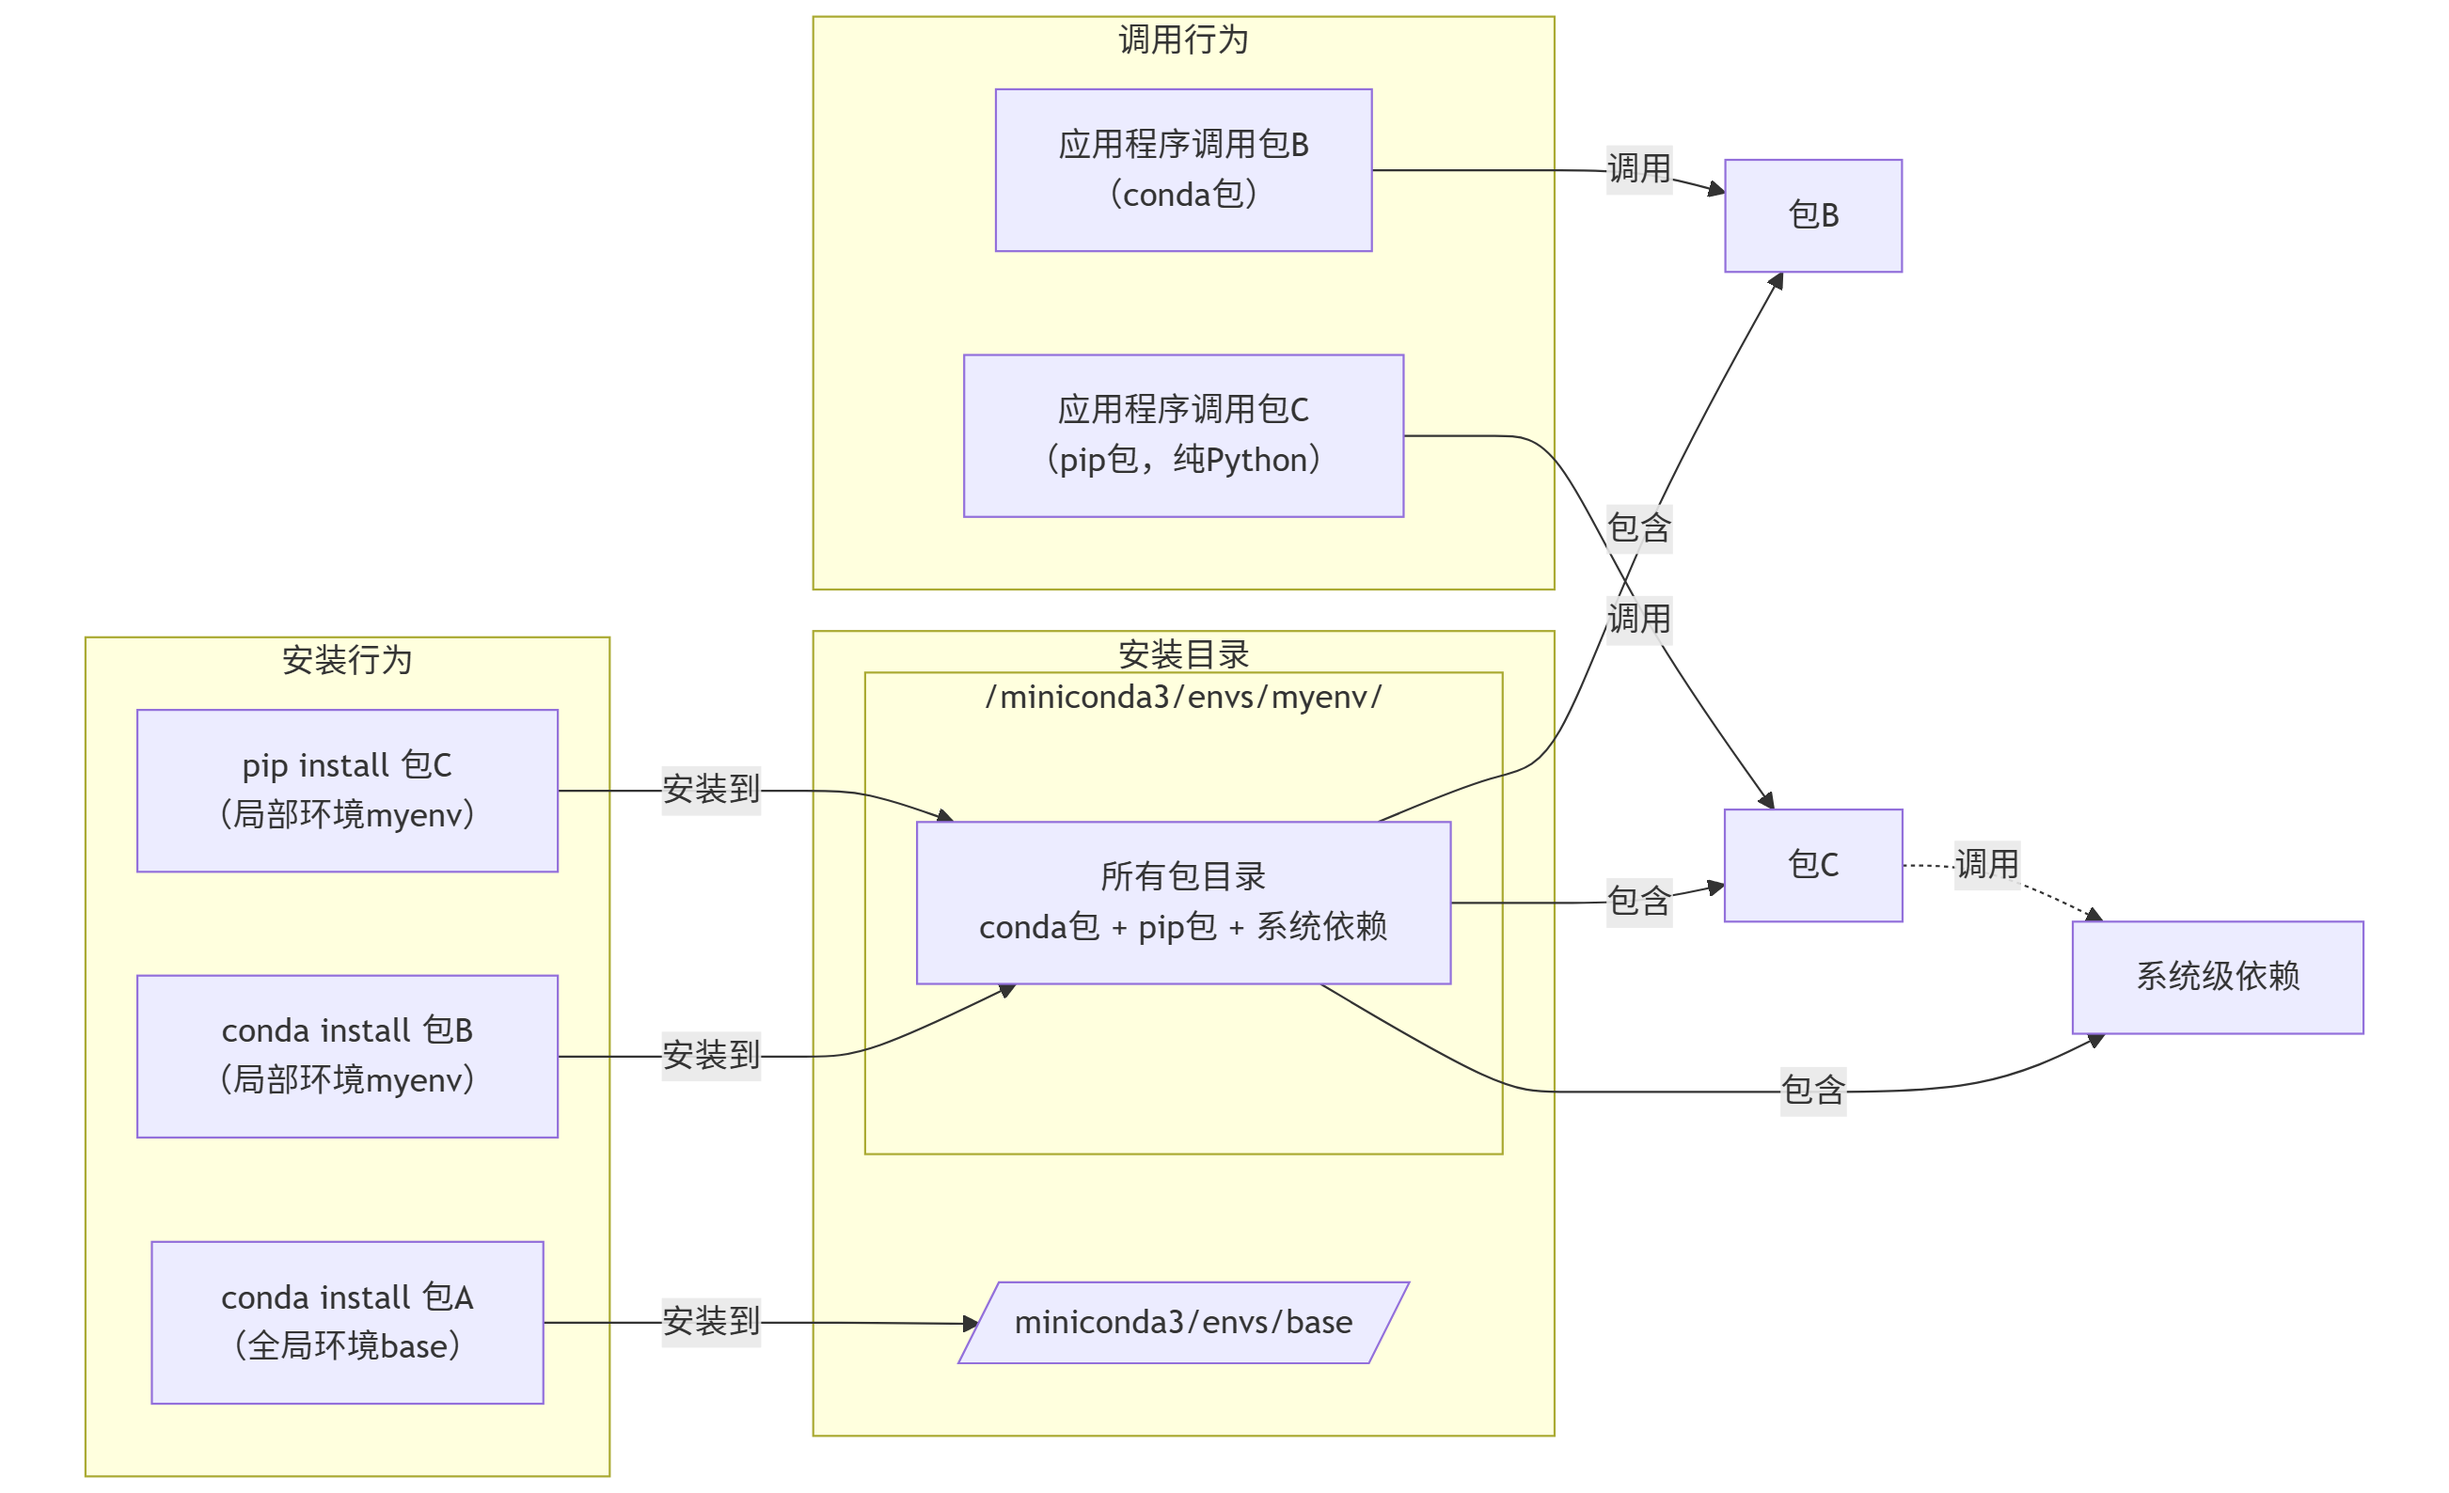
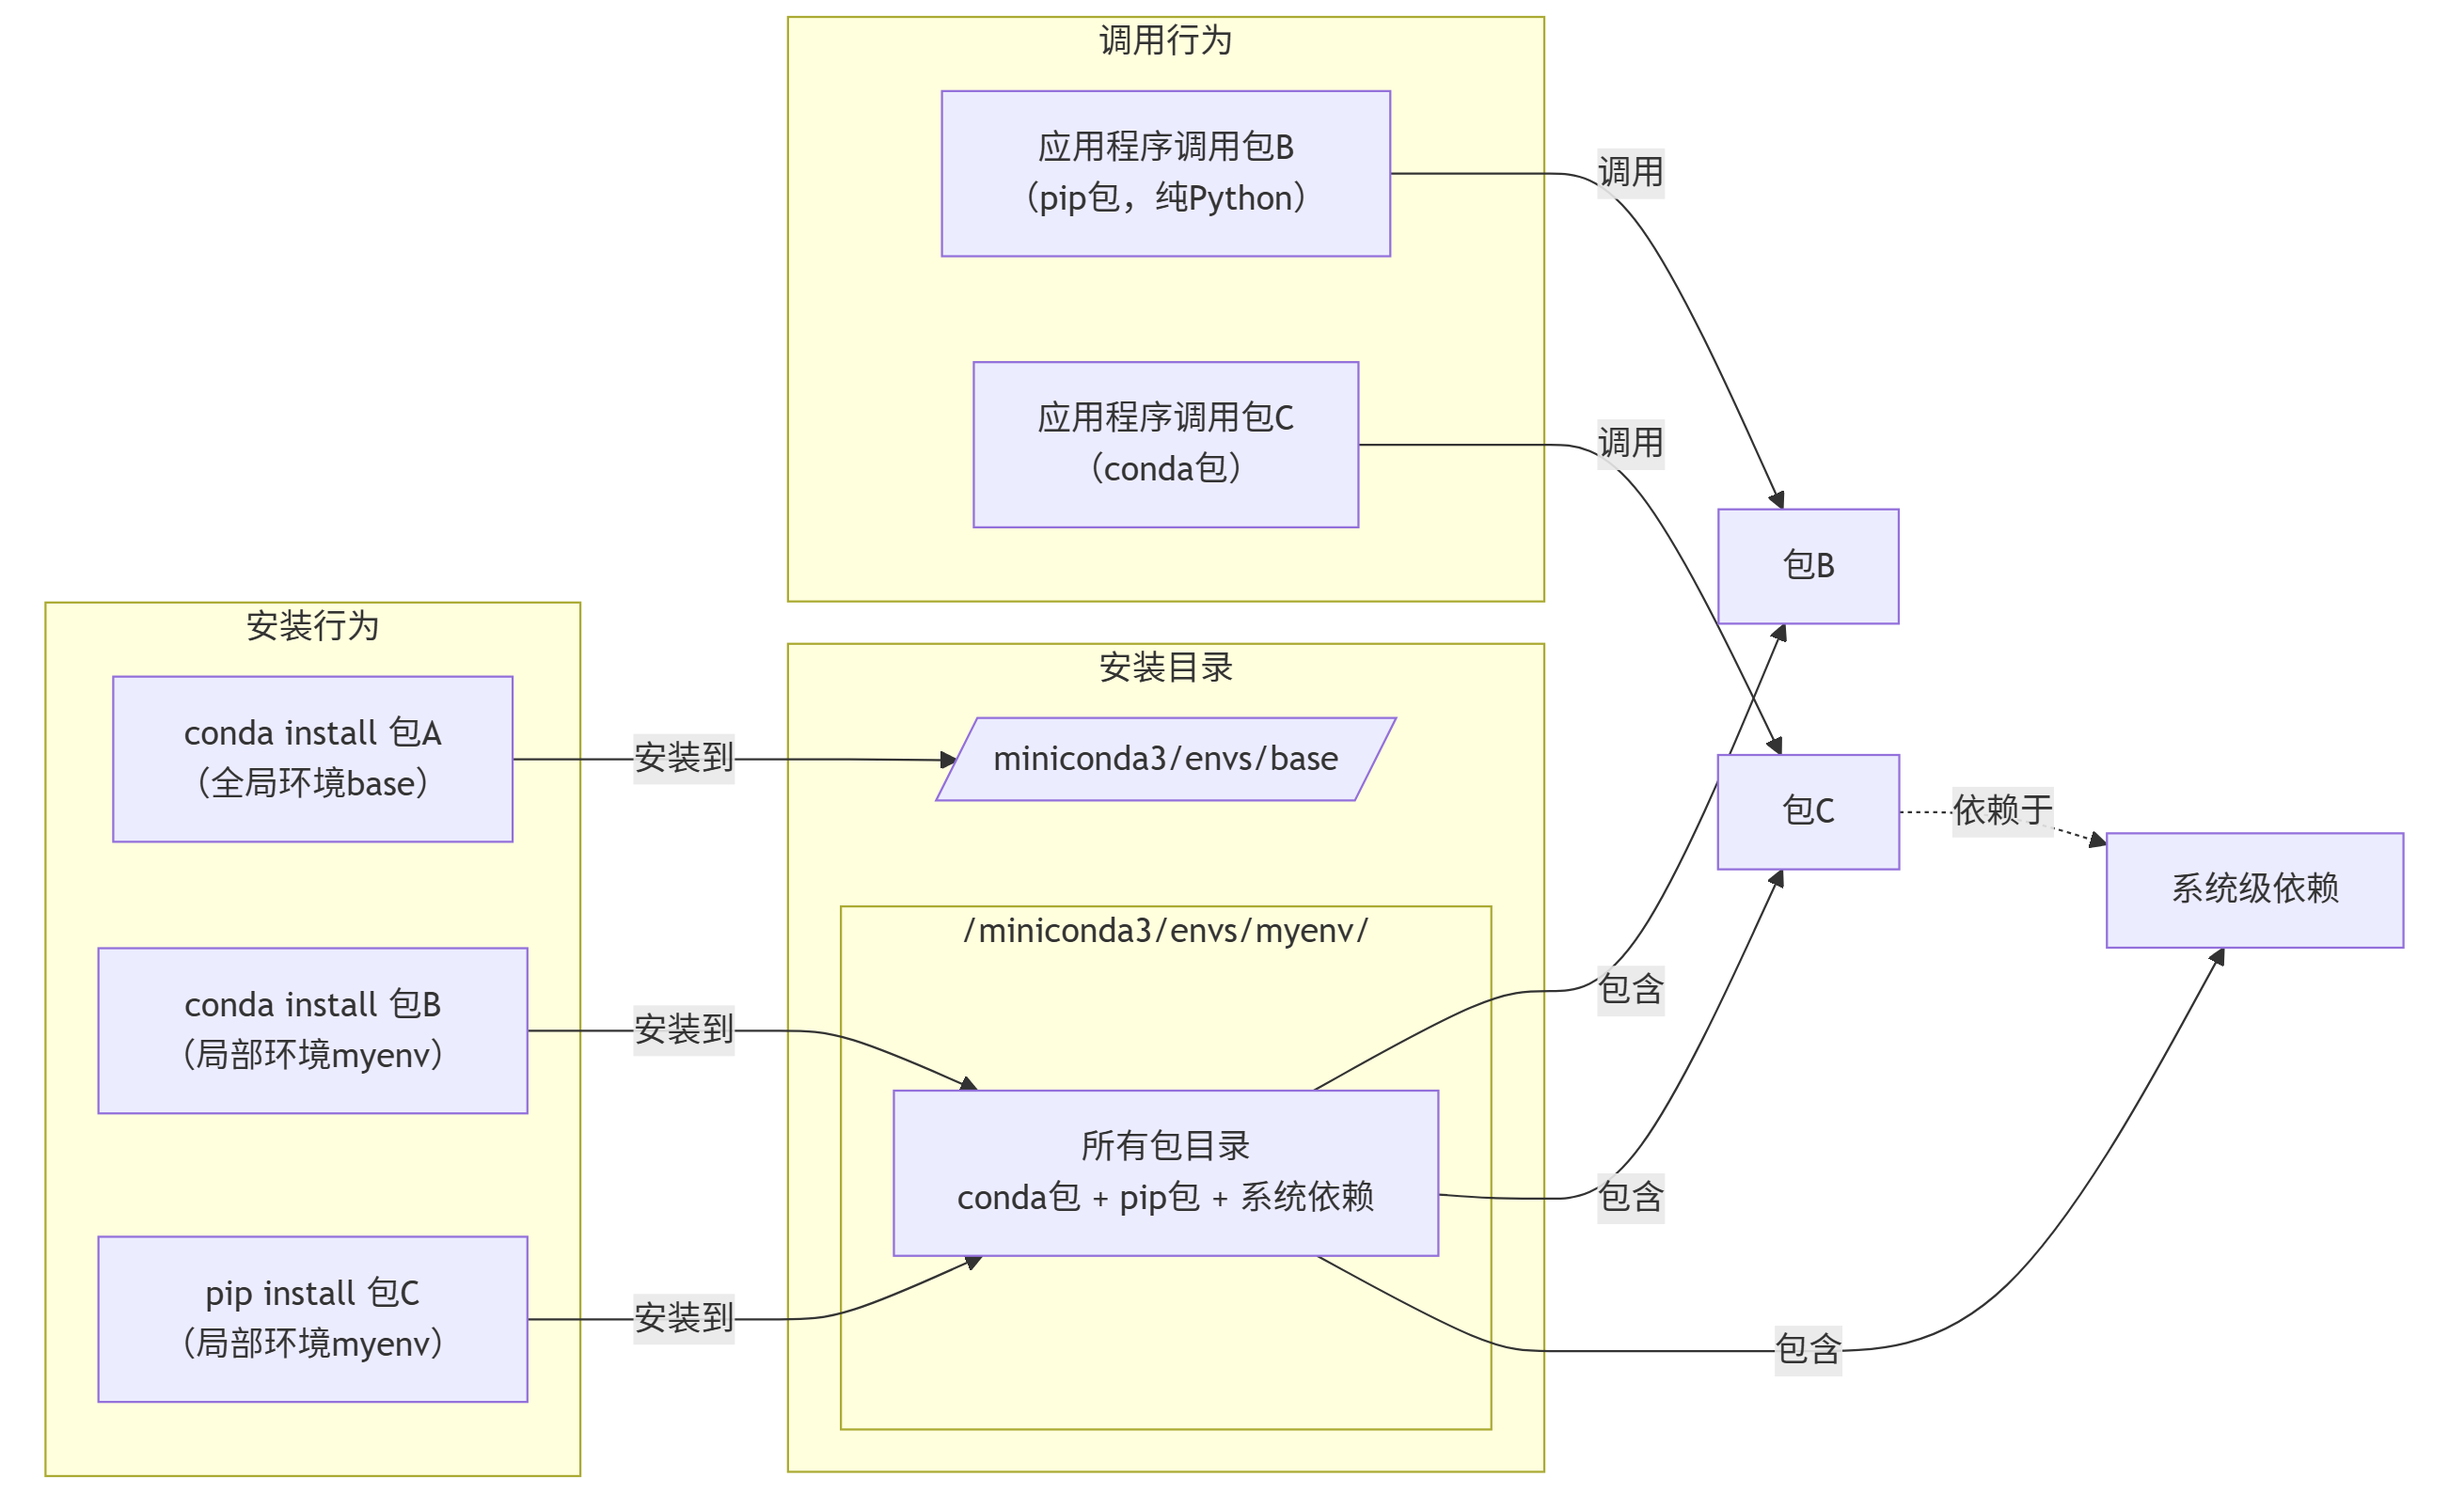
fix

diff --git a/_posts/2025-05-01-月度灵感2025年5月刊.md b/_posts/2025-05-01-月度灵感2025年5月刊.md
@@ -53,7 +53,7 @@ B站源为GimcaHasPlan个人汉化。
 [Ludam Dare官网](https://ldjam.com/events/ludum-dare/57/deep-fry)
 
 ![](assets\img\posts\deep-fry.png)
-_游戏页面截图
+_游戏页面截图_
 
 来自Ludam Dare 57的作品，本质的话看过介绍就会明白是什么。在灵感上感觉很贴合比赛主题depth，美术也很优秀的比赛游戏一则。
 
@@ -62,5 +62,5 @@ _游戏页面截图
 | 标题                                  | 作者             | 类型  | 链接                                                                                                    | 推荐日期       | 备注               |
 | ----------------------------------- | -------------- | --- | ----------------------------------------------------------------------------------------------------- | ---------- | ---------------- |
 | 披萨店精心设计的菜单                          | 原作者不详          | 💡  | [B站源](https://www.bilibili.com/video/BV1Es5MzuE67)                                                    | 2025-05-10 |                  |
-| Playlist/器乐摇滚/数学摇滚 \| 蓝白色的海浪冲进了我的脑内 | 阿信不做白日梦        | 🎼  | [B站源](https://www.bilibili.com/video/BV153VZzMEy1)                                                    | 2025-05-12 | 是作者的歌单推荐，封面由作者设计 |
+| Playlist/器乐摇滚/数学摇滚 \|<br> 蓝白色的海浪冲进了我的脑内 | 阿信不做白日梦        | 🎼  | [B站源](https://www.bilibili.com/video/BV153VZzMEy1)                                                    | 2025-05-12 | 是作者的歌单推荐，封面由作者设计 |
 | 死生観にさよなら                            | あばらや，搬运：MPPC39 | 🎼  | [B站源](https://www.bilibili.com/video/BV1fS421P7b3) / [N站源](https://www.nicovideo.jp/watch/sm43431384) | 2025-05-17 |                  |

diff --git a/assets/others/conda-2025-07.md b/assets/others/conda-2025-07.md
@@ -13,8 +13,8 @@ graph LR
     end
 
     subgraph 调用行为
-        App1[应用程序调用包C<br>（pip包，纯Python）]
-        App2[应用程序调用包B<br>（conda包）]
+        App1[应用程序调用包B<br>（pip包，纯Python）]
+        App2[应用程序调用包C<br>（conda包）]
     end
 
     A1 -- 安装到 --> GDir
@@ -25,5 +25,5 @@ graph LR
     EnvLibs -->|包含| 包C
     EnvLibs -->|包含| 系统级依赖
 
-    App1 -->|调用| 包C -.-> |调用|系统级依赖
-    App2 -->|调用| 包B
+    App1 -->|调用| 包B 
+    App2 -->|调用| 包C -.-> |依赖于|系统级依赖
